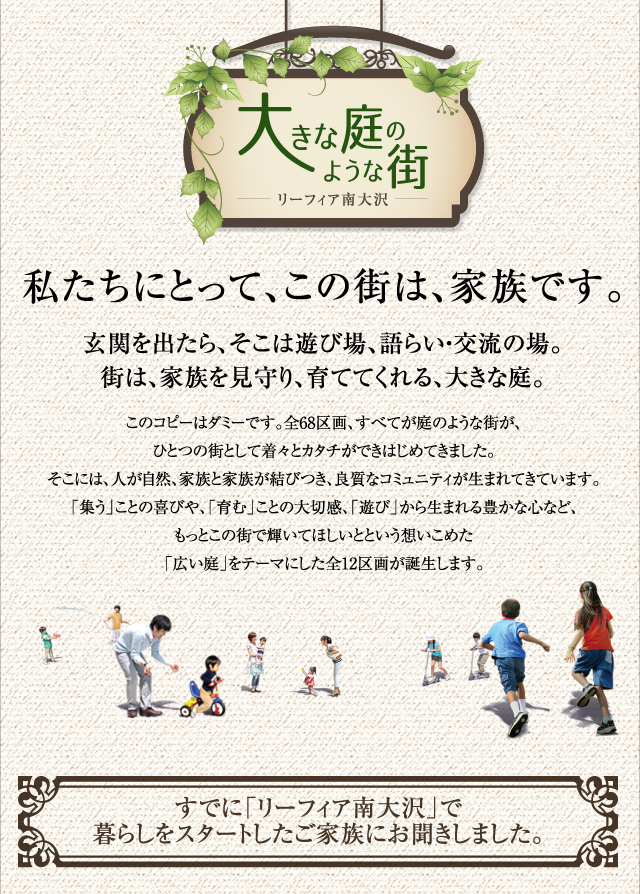
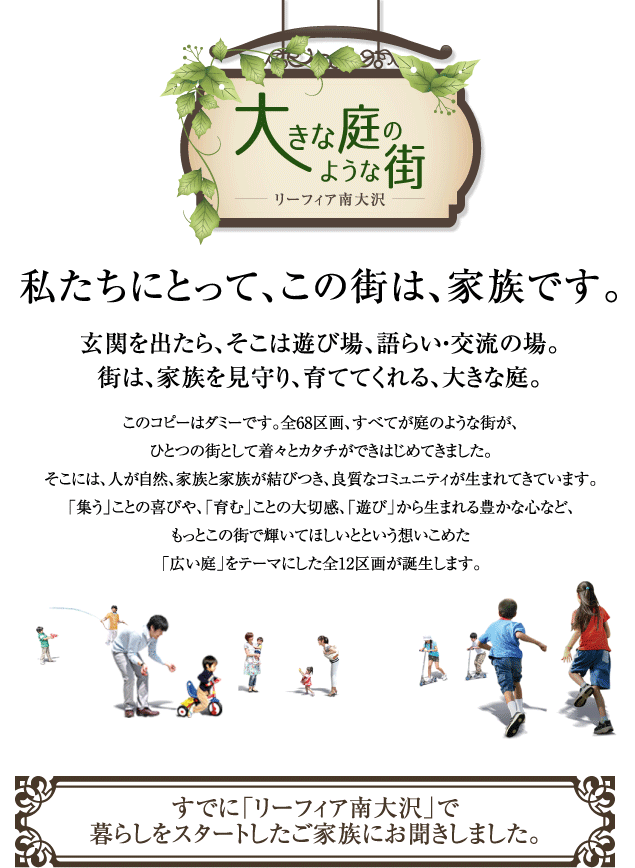
concept

diff --git a/leafia_minamiosawa_4th/concept/index.html b/leafia_minamiosawa_4th/concept/index.html
@@ -1,159 +1,183 @@
 <!DOCTYPE html PUBLIC "-//W3C//DTD XHTML 1.0 Transitional//EN" "http://www.w3.org/TR/xhtml1/DTD/xhtml1-transitional.dtd">
 <html xmlns="http://www.w3.org/1999/xhtml" xml:lang="ja" dir="ltr">
-<head profile="http://purl.org/net/ns/metaprof"> 
-<!-- meta -->
-	<meta name="viewport" content="width=device-width,initial-scale=1.0" />
-	<meta http-equiv="Content-Type" content="text/html; charset=UTF-8" />
-	<meta http-equiv="Content-Script-Type" content="text/javascript" />
-	<meta http-equiv="Content-Style-Type" content="text/css" />
-	<meta name="Keywords" content="南大沢,多摩境,京王相模原線,沿線,新築,一戸建て,物件,不動産,住宅,検索,情報,リーフィア,小田急不動産,odakyu" />
-	<meta name="Description" content="小田急不動産公式サイト　新築分譲一戸建て「リーフィア南大沢第4期」。リーフィア南大沢の公式ホームページです。" />
-<!-- title -->
-	<title>コンセプト｜小田急不動産　リーフィア南大沢第4期 ｜ 京王相模原線「南大沢」「多摩境」駅利用、今春第4期販売開始予定の新築一戸建て。</title>
-<!-- link -->
-	<link rel="start" href="/" title="ホーム" /> 
-	<link rel="stylesheet" type="text/css" media="all" href="../common/css/main.css" />
-	<link rel="stylesheet" type="text/css" media="all" href="../common/css/responsive.css" />
-	<link rel="stylesheet" type="text/css" media="all" href="css/style.css" />
-<!-- js -->
-	<script type="text/javascript" src="../common/js/jquery.js" id="jqueryJS" charset="UTF-8"></script>
-	<script type="text/javascript" src="../common/js/util.js" id="utilJS" charset="UTF-8"></script>
-	<script type="text/javascript" src="../common/js/main.js" id="mainJS" charset="UTF-8"></script>
-	<!-- <script type="text/javascript" src="../common/parts/parts.js" charset="UTF-8"></script> -->
-<!-- init -->
-	<link rel="stylesheet" type="text/css" href="../common/css/import/accessibility.css" media="screen" id="noscriptCSS" />
-	<script type="text/javascript" charset="UTF-8" src="../common/js/init.js" id="InitJS"></script>
-<!-- flatHeightAll -->
-	<script type="text/javascript" src="../common/js/jquery.flatHeightAll.min.js" id="flJS" charset="UTF-8"></script>
-<!-- TweenMax -->
-	<script src="../common/js/tweenmax.min.js"></script>
-</head>
-<body class="base">
-<div class="page" id="pageID04">
-<!-- //////////////////////////////////////////////////////////////////////////////////////////////////// -->
-<div id="gHeader" class="header">
-<div class="nav" id="accessibilityNav">
-<ul>
-<li><a href="#mainContent">コンテンツへ</a></li>
-<li><a href="#gNav">ナビゲーションへ</a></li>
-</ul>
-</div><!-- / #accessibilityNav -->
-<div class="wrap">
-<div id="hdrLogoArea" class="clearfix">
-<p class="siteTitle"><a href="../index.html"><img src="../common/imgs/hdr-logo.png" alt="{seotxt}｜小田急不動産 {name_article}【公式HP】"></a></p>
-<div class="LogoTxt">
-<h1 class="shldrTxt">京王相模原線「南大沢」「多摩境」駅徒歩圏。全68区画、景観協定認可の街。</h1>
-<p class="siteTitleTxt"><img src="../common/imgs/hdr-logotxt.png" alt="{seotxt}｜小田急不動産 {name_article}【公式HP】"></p>
-</div><!-- / .LogoTxt -->
-<div id="menuNav" class="nav">
-<div id="spPull"><span class="icon-menu"></span><span class="infoTxt">メニュー</span><span class="hdrClose icon-close">閉じる</span></div>
-</div><!-- / #menuNav -->
-</div><!-- / #hdrLogoArea -->
-<div id="pNav" class="nav clearfix">
-<ul class="ahoverArea">
-<li class="btMap"><a href="../map/index.html"><img src="../common/imgs/hdr-map.jpg" alt="現地案内図"></a></li>
-<li class="btOut"><a href="../misc_redirect/outline.html" target="_blank"><img src="../common/imgs/hdr-outline.jpg" alt=""></a></li>
-<li class="btReq"><a href="../misc_redirect/request.html" target="_blank"><span>資料請求</span></a></li>
-<li class="btRes"><a href="../misc_redirect/reserve.html" target="_blank"><span>来場予約</span></a></li>
-</ul>
-</div><!-- / #pNav -->
-</div><!-- / .wrap -->
-<div id="spNav" class="nav clearfix">
-<ul>
-<li id="spMap"><a href="../map/index.html"><span class="icon-map"></span>現地案内図</a></li>
-<li id="spInfo"><span class="icon-info"></span><span class="infoTxt">インフォ<br />メーション</span><span class="hdrClose icon-close">閉じる</span></li>
-<li id="spOut"><a href="../misc_redirect/outline.html"><span class="icon-note"></span>物件概要</a></li>
-<li id="spReq"><span class="icon-mail"></span><span class="infoTxt">資料請求</span><span class="hdrClose icon-close">閉じる</span></li>
-<li id="spTel"><a href="tel:0120092177" target="_blank"><span class="icon-tel"></span>お問い合わせ</a></li>
-</ul>
-</div><!-- / #spNav -->
-<div class="spInner">
-<div id="hNavReq" class="nav clearfix">
-<ul>
-<li id="btReq"><a href="../misc_redirect/request.html" target="_blank"><img src="../common/imgs/bt-sprequest.png"></a></li>
-<li id="btRes"><a href="../misc_redirect/reserve.html" target="_blank"><img src="../common/imgs/bt-spreserve.png"></a></li>
-</ul>
-</div><!-- / #hNavReq -->
-
-<div id="hNavInfo">
-<h3><img src="../common/imgs/h-information.png" alt="INFORMATION"></h3>
-<div class="frameBox">
-{HOMEMIX_INFORMATION}
-</div><!-- / #frameBox -->
-</div><!-- / #hNavInfo -->
-
-<div id="gNav" class="nav">
-<div class="wrap clearfix">
-    <!-- /common/parts/gnav.html include -->
-</div><!-- / .wrap -->
-</div><!-- / #gNav -->
-</div><!-- / .spInner -->
-</div><!-- / #header -->
-<div id="container">
-<div id="mainContent" class="article concept-page">
-<div class="wrap">
-<div id="contents" class="clearfix">
-	<div id="contents-head" class="clearfix">
-	  <img class="dt" src="imgs/top-img.png">
-	  <img class="mb" src="imgs/top-img-mb.png">
-	</div>
-  <div class="list-map clearfix">
-  	 <ul>
-  	 	<li>
-  	 	    <img src="imgs/map-1.png">
-           <a class="btn" href="#"></a>
-  	 	</li>
-  	   <li class="right"><img src="imgs/map-2.png">
-             <a class="btn" href="#"></a>
-  	    </li>
-  	   <li><img src="imgs/map-3.png"><a class="btn" href="#"></a></li>
-  	   <li class="right"><img src="imgs/map-4.png"><a class="btn" href="#"></a></li>
-      <li><img src="imgs/map-5.png"><a class="btn" href="#"></a></li>
-      <li class="right"><img src="imgs/map-6.png"><a class="btn" href="#"></a></li>
-  	 </ul>
-  </div>
-</div>
-</div><!-- / .wrap -->
-<div id="CVArea">
-<div class="wrap">
-<ul class="clearfix nav">
-<li class="btReq">
-<h3>当物件の詳しい資料を<span>無料</span>で</h3>
-<p class="btn"><a href="../misc_redirect/request.html" target="_blank">資料請求はこちら<span class="icon-next"></span></a></p>
-<p>詳しい資料を送付いたします。<br />
-ご家族お揃いで見る際にお役立てください。</p>
-</li>
-<li class="btRes">
-<h3>ご予約いただいた方は<span>優先</span>でご案内します。</h3>
-<p class="btn"><a href="../misc_redirect/reserve.html" target="_blank">来場予約はこちら<span class="icon-next"></span></a></p>
-</li>
-</ul>
-</div><!-- / .wrap -->
-</div><!-- / #CVArea -->
-</div><!-- / #article -->
-</div><!-- / #container -->
-<div id="gFooter" class="footer">
-<div id="fNav" class="nav">
-<div class="wrap">
-    <!-- /common/parts/fnav.html include -->
-<p class="btMap"><a href="../map/index.html">現地案内図はこちら</a></p>
-</div><!-- / .wrap -->
-</div><!-- / #fNav -->
-<div id="FOOTER">
-    <!-- /common/parts/footer.html include -->
-</div><!-- / #FOOTER -->
-</div><!-- / #gFooter -->
-<!-- //////////////////////////////////////////////////////////////////////////////////////////////////// -->
-</div><!-- / .page -->
-<noscript>
-<div class="noscript" id="noscript">
-<div class="content">
-当サイトを最適な状態で閲覧していただくにはブラウザの<span>JavaScriptを有効</span>にしてご利用下さい。<br />
-JavaScriptを無効のままご覧いただいた場合には一部機能がご利用頂けない場合や正しい情報を取得できない場合がございます。
-</div>
-</div><!-- / #noscript -->
-</noscript>
-<div id="logtag">
-</div><!-- / #logtag -->
-</body>
+   <head profile="http://purl.org/net/ns/metaprof">
+      <!-- meta -->
+      <meta name="viewport" content="width=device-width,initial-scale=1.0" />
+      <meta http-equiv="Content-Type" content="text/html; charset=UTF-8" />
+      <meta http-equiv="Content-Script-Type" content="text/javascript" />
+      <meta http-equiv="Content-Style-Type" content="text/css" />
+      <meta name="Keywords" content="南大沢,多摩境,京王相模原線,沿線,新築,一戸建て,物件,不動産,住宅,検索,情報,リーフィア,小田急不動産,odakyu" />
+      <meta name="Description" content="小田急不動産公式サイト　新築分譲一戸建て「リーフィア南大沢第4期」。リーフィア南大沢の公式ホームページです。" />
+      <!-- title -->
+      <title>コンセプト｜小田急不動産　リーフィア南大沢第4期 ｜ 京王相模原線「南大沢」「多摩境」駅利用、今春第4期販売開始予定の新築一戸建て。</title>
+      <!-- link -->
+      <link rel="start" href="/" title="ホーム" />
+      <link rel="stylesheet" type="text/css" media="all" href="../common/css/main.css" />
+      <link rel="stylesheet" type="text/css" media="all" href="../common/css/responsive.css" />
+      <link rel="stylesheet" type="text/css" media="all" href="css/style.css" />
+      <!-- js -->
+      <script type="text/javascript" src="../common/js/jquery.js" id="jqueryJS" charset="UTF-8"></script>
+      <script type="text/javascript" src="../common/js/util.js" id="utilJS" charset="UTF-8"></script>
+      <script type="text/javascript" src="../common/js/main.js" id="mainJS" charset="UTF-8"></script>
+      <!-- <script type="text/javascript" src="../common/parts/parts.js" charset="UTF-8"></script> -->
+      <!-- init -->
+      <link rel="stylesheet" type="text/css" href="../common/css/import/accessibility.css" media="screen" id="noscriptCSS" />
+      <script type="text/javascript" charset="UTF-8" src="../common/js/init.js" id="InitJS"></script>
+      <!-- flatHeightAll -->
+      <script type="text/javascript" src="../common/js/jquery.flatHeightAll.min.js" id="flJS" charset="UTF-8"></script>
+      <!-- TweenMax -->
+      <script src="../common/js/tweenmax.min.js"></script>
+   </head>
+   <body class="base">
+      <div class="page" id="pageID04">
+         <!-- //////////////////////////////////////////////////////////////////////////////////////////////////// -->
+         <div id="gHeader" class="header">
+            <div class="nav" id="accessibilityNav">
+               <ul>
+                  <li><a href="#mainContent">コンテンツへ</a></li>
+                  <li><a href="#gNav">ナビゲーションへ</a></li>
+               </ul>
+            </div>
+            <!-- / #accessibilityNav -->
+            <div class="wrap">
+               <div id="hdrLogoArea" class="clearfix">
+                  <p class="siteTitle"><a href="../index.html"><img src="../common/imgs/hdr-logo.png" alt="{seotxt}｜小田急不動産 {name_article}【公式HP】"></a></p>
+                  <div class="LogoTxt">
+                     <h1 class="shldrTxt">京王相模原線「南大沢」「多摩境」駅徒歩圏。全68区画、景観協定認可の街。</h1>
+                     <p class="siteTitleTxt"><img src="../common/imgs/hdr-logotxt.png" alt="{seotxt}｜小田急不動産 {name_article}【公式HP】"></p>
+                  </div>
+                  <!-- / .LogoTxt -->
+                  <div id="menuNav" class="nav">
+                     <div id="spPull"><span class="icon-menu"></span><span class="infoTxt">メニュー</span><span class="hdrClose icon-close">閉じる</span></div>
+                  </div>
+                  <!-- / #menuNav -->
+               </div>
+               <!-- / #hdrLogoArea -->
+               <div id="pNav" class="nav clearfix">
+                  <ul class="ahoverArea">
+                     <li class="btMap"><a href="../map/index.html"><img src="../common/imgs/hdr-map.jpg" alt="現地案内図"></a></li>
+                     <li class="btOut"><a href="../misc_redirect/outline.html" target="_blank"><img src="../common/imgs/hdr-outline.jpg" alt=""></a></li>
+                     <li class="btReq"><a href="../misc_redirect/request.html" target="_blank"><span>資料請求</span></a></li>
+                     <li class="btRes"><a href="../misc_redirect/reserve.html" target="_blank"><span>来場予約</span></a></li>
+                  </ul>
+               </div>
+               <!-- / #pNav -->
+            </div>
+            <!-- / .wrap -->
+            <div id="spNav" class="nav clearfix">
+               <ul>
+                  <li id="spMap"><a href="../map/index.html"><span class="icon-map"></span>現地案内図</a></li>
+                  <li id="spInfo"><span class="icon-info"></span><span class="infoTxt">インフォ<br />メーション</span><span class="hdrClose icon-close">閉じる</span></li>
+                  <li id="spOut"><a href="../misc_redirect/outline.html"><span class="icon-note"></span>物件概要</a></li>
+                  <li id="spReq"><span class="icon-mail"></span><span class="infoTxt">資料請求</span><span class="hdrClose icon-close">閉じる</span></li>
+                  <li id="spTel"><a href="tel:0120092177" target="_blank"><span class="icon-tel"></span>お問い合わせ</a></li>
+               </ul>
+            </div>
+            <!-- / #spNav -->
+            <div class="spInner">
+               <div id="hNavReq" class="nav clearfix">
+                  <ul>
+                     <li id="btReq"><a href="../misc_redirect/request.html" target="_blank"><img src="../common/imgs/bt-sprequest.png"></a></li>
+                     <li id="btRes"><a href="../misc_redirect/reserve.html" target="_blank"><img src="../common/imgs/bt-spreserve.png"></a></li>
+                  </ul>
+               </div>
+               <!-- / #hNavReq -->
+               <div id="hNavInfo">
+                  <h3><img src="../common/imgs/h-information.png" alt="INFORMATION"></h3>
+                  <div class="frameBox">
+                     {HOMEMIX_INFORMATION}
+                  </div>
+                  <!-- / #frameBox -->
+               </div>
+               <!-- / #hNavInfo -->
+               <div id="gNav" class="nav">
+                  <div class="wrap clearfix">
+                     <!-- /common/parts/gnav.html include -->
+                  </div>
+                  <!-- / .wrap -->
+               </div>
+               <!-- / #gNav -->
+            </div>
+            <!-- / .spInner -->
+         </div>
+         <!-- / #header -->
+         <div id="container">
+            <div id="mainContent" class="article concept-page">
+               <div class="wrap conceptwrap">
+                  <div id="contents" class="clearfix">
+                     <div id="contents-head" class="clearfix">
+                        <img class="dt" src="imgs/top-img.png">
+                        <img class="mb" src="imgs/top-img-mb.png">
+                     </div>
+                     <div class="list-map clearfix">
+                        <ul>
+                           <li>
+                              <img src="imgs/map-1.png">
+                              <a class="btn" href="#"></a>
+                           </li>
+                           <li class="right"><img src="imgs/map-2.png">
+                              <a class="btn" href="#"></a>
+                           </li>
+                           <li><img src="imgs/map-3.png"><a class="btn" href="#"></a></li>
+                           <li class="right"><img src="imgs/map-4.png"><a class="btn" href="#"></a></li>
+                           <li><img src="imgs/map-5.png"><a class="btn" href="#"></a></li>
+                           <li class="right"><img src="imgs/map-6.png"><a class="btn" href="#"></a></li>
+                        </ul>
+                     </div>
+                  </div>
+               </div>
+               <!-- / .wrap -->
+               <div id="CVArea">
+                  <div class="wrap">
+                     <ul class="clearfix nav">
+                        <li class="btReq">
+                           <h3>当物件の詳しい資料を<span>無料</span>で</h3>
+                           <p class="btn"><a href="../misc_redirect/request.html" target="_blank">資料請求はこちら<span class="icon-next"></span></a></p>
+                           <p>詳しい資料を送付いたします。<br />
+                              ご家族お揃いで見る際にお役立てください。
+                           </p>
+                        </li>
+                        <li class="btRes">
+                           <h3>ご予約いただいた方は<span>優先</span>でご案内します。</h3>
+                           <p class="btn"><a href="../misc_redirect/reserve.html" target="_blank">来場予約はこちら<span class="icon-next"></span></a></p>
+                        </li>
+                     </ul>
+                  </div>
+                  <!-- / .wrap -->
+               </div>
+               <!-- / #CVArea -->
+            </div>
+            <!-- / #article -->
+         </div>
+         <!-- / #container -->
+         <div id="gFooter" class="footer">
+            <div id="fNav" class="nav">
+               <div class="wrap">
+                  <!-- /common/parts/fnav.html include -->
+                  <p class="btMap"><a href="../map/index.html">現地案内図はこちら</a></p>
+               </div>
+               <!-- / .wrap -->
+            </div>
+            <!-- / #fNav -->
+            <div id="FOOTER">
+               <!-- /common/parts/footer.html include -->
+            </div>
+            <!-- / #FOOTER -->
+         </div>
+         <!-- / #gFooter -->
+         <!-- //////////////////////////////////////////////////////////////////////////////////////////////////// -->
+      </div>
+      <!-- / .page -->
+      <noscript>
+         <div class="noscript" id="noscript">
+            <div class="content">
+               当サイトを最適な状態で閲覧していただくにはブラウザの<span>JavaScriptを有効</span>にしてご利用下さい。<br />
+               JavaScriptを無効のままご覧いただいた場合には一部機能がご利用頂けない場合や正しい情報を取得できない場合がございます。
+            </div>
+         </div>
+         <!-- / #noscript -->
+      </noscript>
+      <div id="logtag"></div>
+      <!-- / #logtag -->
+   </body>
 </html>

diff --git a/leafia_minamiosawa_4th/concept/css/style.css b/leafia_minamiosawa_4th/concept/css/style.css
@@ -30,9 +30,20 @@ li.right{
 /* @media 600 START */
 @media only screen and (max-width:600px) {
 	#mainContent.concept-page{
-	background:url('../imgs/bg-body-mb.jpg') no-repeat center top;
+	 background: transparent;
+   }
+   .concept-page .wrap.conceptwrap{
+    background: url('../imgs/bg-body-mb.png') no-repeat center bottom;
+    background-size: cover;
+   }
+   .concept-page #contents{
+    margin-bottom: 240px;
    }
    .dt{display:none;}
    .mb{display:block;}
+   .list-map ul li{
+      padding-left: 0;
+      margin-bottom: 12px;
+   }
 }
 /* @media 600 END */

diff --git a/leafia_minamiosawa_4th/plans/css/style.css b/leafia_minamiosawa_4th/plans/css/style.css
@@ -243,6 +243,7 @@
 	.selectRoom{
 		position: relative;
 		height: 489px;
+		overflow: hidden;
 	}
 	.planPage .txt {
 	  font-size: 29px;
@@ -352,7 +353,6 @@
 		z-index: -1;
 	}
 	.room .r{
-		display: none;
 		width: 100%;
 		height: 100%;
 	}

diff --git a/leafia_minamiosawa_4th/charm/css/style.css b/leafia_minamiosawa_4th/charm/css/style.css
@@ -113,7 +113,6 @@ li p{
    }
    .btn{padding-left:0;}
    #mainContent{
-   	background:#5D5D5D;
    }
    .txt{padding-top:25px;padding-bottom:15px;}
    .map{margin-top:0;}
